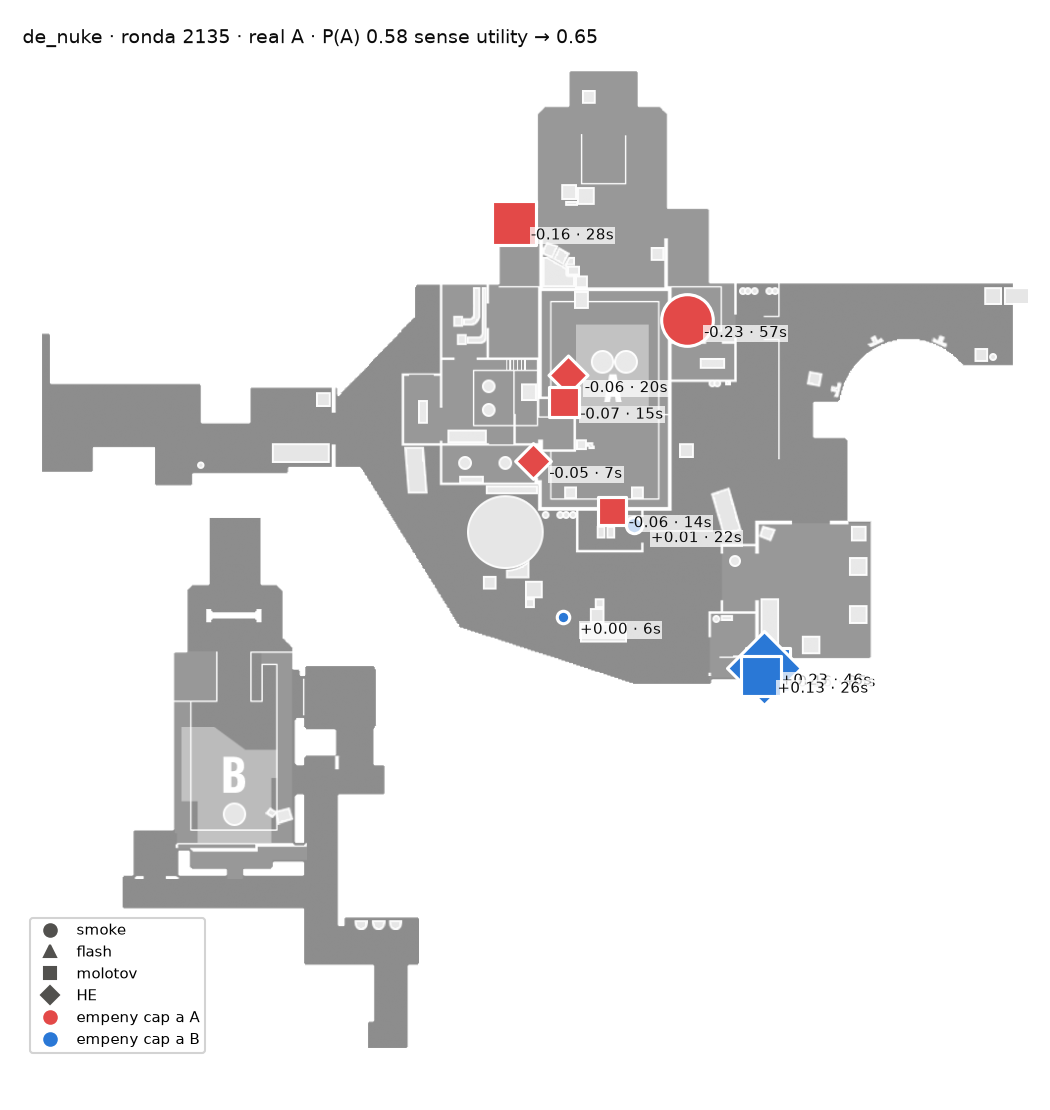
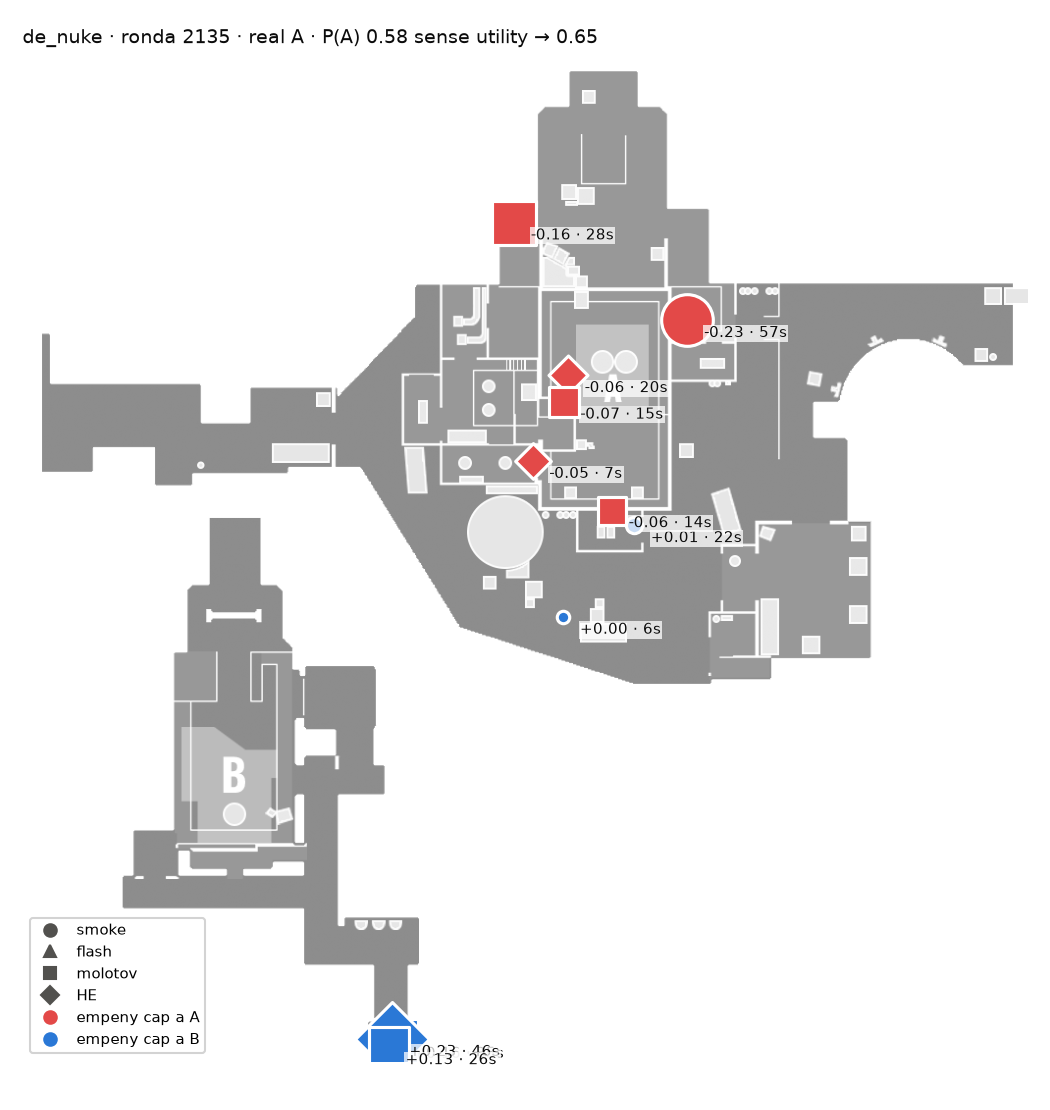
docs(resultats): corregir los callouts de nuke en los resultados de SHAP

Changed region(s): [[0.6705, 0.5514, 0.8229, 0.6432], [0.3352, 0.8883, 0.4267, 0.9802], [0.4571, 0.9495, 0.4876, 0.9802]]

diff --git a/docs/RESULTATS-SHAP.md b/docs/RESULTATS-SHAP.md
@@ -24,7 +24,7 @@
 | Encert deixant només la més important | **0.890** (ronda sencera: 0.890) · a l'atzar: 0.658 |
 | Encert traient-ne les 5 més importants | **0.536** · a l'atzar: 0.857 |
 | Pes d'una granada llançada passats els 60 s, respecte dels primers 15 s | **×3,4** |
-| Callouts que delaten el site: mitjana \|φ\| per callout | 0.053–0.067; **nuke 0.024** |
+| Callouts que delaten el site: mitjana \|φ\| per callout | 0.053–0.067; **nuke 0.040** |
 | Gate: pes de les granades / armes / economia / equip / fase | 62 % / 22 % / 11 % / 4 % / 2 % |
 | Timing: la granada que més pesa és l'última llançada | **63 %** (a l'atzar, 11 %) |
 
@@ -32,8 +32,9 @@
 i segons **on cauen**, no de quin tipus són. SHAP ho diu i el test de borrat ho confirma: traient
 les 5 granades que SHAP marca, el model queda gairebé a l'atzar (0.536); traient-ne 5 qualsevol,
 gairebé no es mou (0.857). Els callouts que surten són els que diria un jugador (B Doors i
-B Default Plant a dust2, Hell i Olof cap a A a train). A nuke no en surt gairebé cap, i és el
-mapa on el model falla més (0.791).
+B Default Plant a dust2, Hell i Olof cap a A a train). A nuke, el mapa on el model falla més
+(0.791), el nivell inferior delata B més que cap altre callout, però el 61 % de les granades
+cauen a A Site i Outside, que no apunten a cap site.
 
 ---
 
@@ -126,7 +127,9 @@ inclou aquesta coalició d'un sol element. «Deixar-ne només k» afavoreix SHAP
 ## 4. Callouts que delaten el site
 
 φ mitjà cap a B de les granades que cauen a cada callout (callouts amb ≥ 15 granades; negatiu =
-cap a A). Les zones són les de `/maps/edit`.
+cap a A). Les zones són les de `/maps/edit`, amb el nivell de la granada a nuke (la primera
+versió d'aquest document, del 31-10, posava les granades del nivell inferior als callouts de dalt i
+en treia que nuke no tenia callouts clars; corregit l'1-11).
 
 | Mapa | Cap a A | Cap a B |
 |---|---|---|
@@ -136,7 +139,7 @@ cap a A). Les zones són les de `/maps/edit`.
 | de_dust2 | Goose −0.11 · A Default Plant −0.11 · Elevator −0.09 | **B Default Plant +0.21** · B Doors +0.15 · Double Stack +0.13 |
 | de_inferno | Graveyard −0.09 · A Site −0.09 · Back Site (A) −0.09 | Garden +0.15 · Coffins +0.14 · CT +0.13 |
 | de_mirage | Default −0.07 · A Site −0.07 · CT −0.07 | **Door +0.21** · Van +0.17 · Bench +0.16 |
-| de_nuke | Heaven −0.09 · Turn Pike −0.08 · Hell −0.04 | Ramp +0.11 · Secret +0.02 · Outside +0.02 |
+| de_nuke | Heaven −0.13 · Hell −0.08 · Turn Pike −0.08 | **Decon +0.29** · **Bottom Ramp +0.26** · **B Site +0.24** |
 | de_overpass | Lobby −0.15 · Upper Park −0.09 · A Site −0.09 | Canal +0.10 · B Site +0.09 · Bridge +0.09 |
 | de_train | Hell −0.13 · Olof −0.12 · Pigeons −0.11 | Yellow +0.18 · CT Spawn +0.17 · Bomb Train (B) +0.13 |
 
@@ -153,12 +156,14 @@ granades) contra l'encert del mapa en aquests mateixos folds:
 | de_anubis | 22 | 4.516 | 0.054 | 0.128 | 0.885 |
 | de_overpass | 16 | 1.924 | 0.054 | 0.146 | 0.907 |
 | de_ancient | 30 | 5.277 | 0.053 | 0.148 | 0.890 |
-| **de_nuke** | 14 | 4.434 | **0.024** | 0.114 | **0.791** |
+| **de_nuke** | 21 | 4.426 | **0.040** | **0.294** | **0.791** |
 
-- A **nuke** els callouts discriminen menys de la meitat que a la resta, i només en surt un de
-  clar (Ramp). A i B queden gairebé un sobre l'altre i, en 2D, la mateixa posició serveix per als
-  dos sites: per això hi falla el model. Ja ho apuntava la comparativa (§5): el problema de nuke
-  no és l'arquitectura.
+- A **nuke** hi ha els callouts més clars de tots els mapes, els del nivell inferior (Decon,
+  Bottom Ramp, B Site, Vent, Window i Doors, de +0.18 a +0.29), però només hi cau el 7,7 % de les
+  granades. El 61 % cauen a A Site (1.216, −0.02) i Outside (1.499, +0.01), que no apunten a cap
+  site. Per això la mitjana del mapa és la més baixa, i probablement per això hi falla el model:
+  la majoria de la utility de nuke es llança a zones que serveixen per als dos sites. Ja ho
+  apuntava la comparativa (§5): el problema de nuke no és l'arquitectura.
 - **Train** és l'altre mapa fluix (0.824), però per un altre motiu: els callouts sí que
   discriminen (el valor més alt, 0.067). Hi falla per alguna altra cosa, que SHAP no explica.
 
